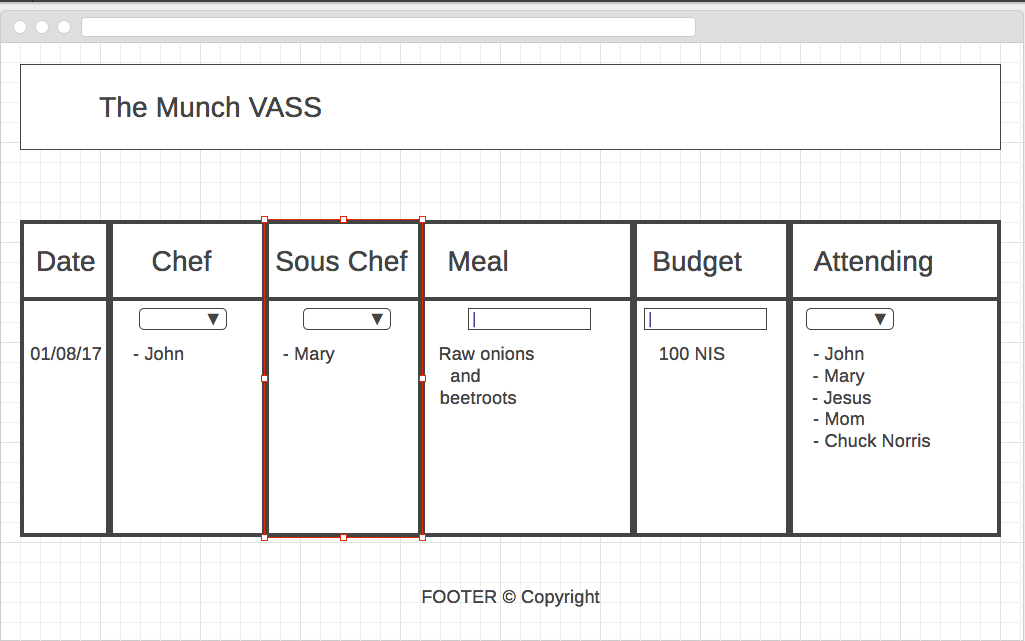
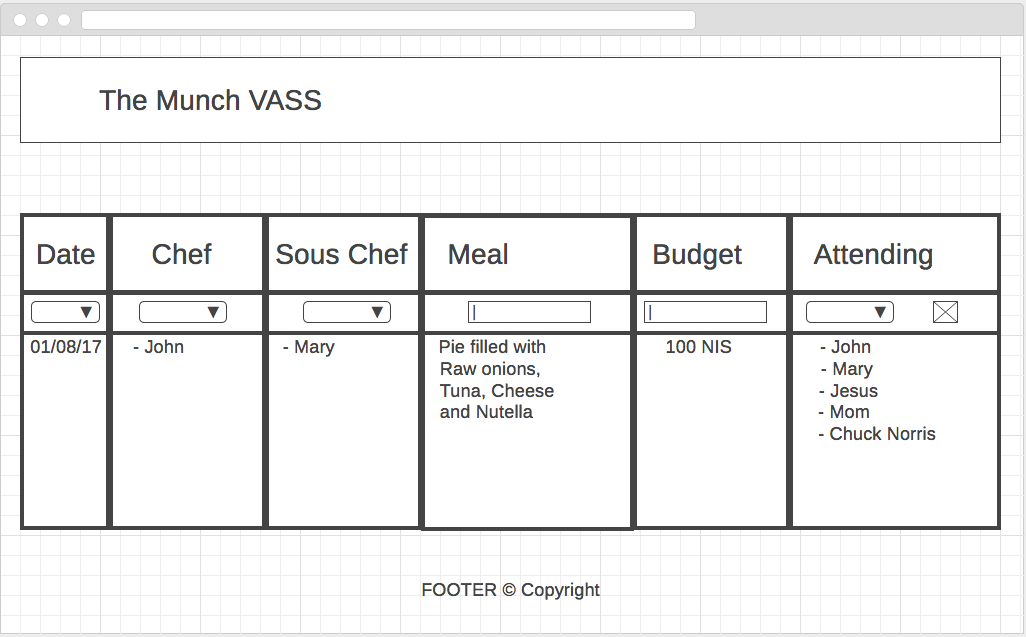
Changed various in backend CHanged the updateTable, getData, router.js routes, handler functions to include get data, updatedata,public and added some css to verfy it's working Relates #23

Changed region(s): [[0.0, 0.0, 1.0, 1.0], [0.4059, 0.8948, 0.5932, 0.9545]]

diff --git a/src/handler.js b/src/handler.js
@@ -1,7 +1,9 @@
+const http = require('http');
 const fs = require('fs');
 const pg = require('pg');
+const path = require('path');
 const querystring = require('querystring');
-const data = require('./queries/data.js')
+const datajs = require('./queries/data.js');
 
 const handleHome = (response) => {
     fs.readFile(__dirname + "/../public/index.html", function(error, file) {
@@ -13,42 +15,65 @@ const handleHome = (response) => {
           response.writeHead(200, {
               "Content-Type": "text/html"
           });
-          
           response.end(file);
         }
-    });   
+    });
 }
 
-const handleGetData = callback => {
-	getData((error, response) => {
-		if (error) {
-			console.log(error)
+const handlePublic = (request, response) => {
+	const extention = request.url.split('.')[1]; // taking the part of the file name which is the extention, i.e. "css".
+	const extentionType = { //object of the differnet types of files
+    html: 'text/html',
+    css: 'text/css',
+    js: 'application/javascript',
+    ico: 'image/x-icon',
+    png: 'image/png'
+  }
+  const filePathPublic = path.join(__dirname, '..', request.url); // define file path
+  fs.readFile(filePathPublic, (error, file) => { // read file and pass error first callback
+    if (error) { // if there is an error - print a 500 error message
+      response.writeHead(500, 'Content-Type: text/html');
+      response.end('<h1>Sorry, there is a problem with the server</h1>');
+    } else { // if the call went through - serve the file
+      response.writeHead(200, `Content-Type: ${extentionType[extention]}`); // server the file that matches the type we are looking for
+      response.end(file); // serve the file
+    }
+  })
+}
+
+const getData = () => {
+	datajs.getData((err, res) => {
+		if (err) {
+      return  console.log('Error querying database.');
 		}
-		const data = JSON.stringify(response);
-		response.writeHead(200, {'Content-Type' : 'application/json'});
-		response.end(data)
+		const table = JSON.stringify(res);
+		response.writeHead(200, {'Content-Type': 'application/json'});
+		response.end(table);
 	})
 }
 
 
+const updateTable = () => {
+  let update = '';
+  request.on('data', (chunk) => {
+    update += chunk;
+  })
+  console.log(update);
+  request.on('end', () => {
 
-// const handlePublic = (url, response) => {
-// 	const extention = urlPublic.split('.')[1]; // taking the part of the file name which is the extention, i.e. "css".
-// 	const extentionType = { //object of the differnet types of files
-//     html: 'text/html',
-//     css: 'text/css',
-//     js: 'application/javascript',
-//     ico: 'image/x-icon',
-//     png: 'image/png'
-//   }
-//   const filePathPublic = path.join(__dirname, '..', urlPublic); // define file path
-//   fs.readFile(filePathPublic, (error, file) => { // read file and pass error first callback
-//     if (error) { // if there is an error - print a 500 error message
-//       response.writeHead(500, `Content-Type: text/html`);
-//       response.end(`<h1>Sorry, there is a problem with the server </h1>`);
-//     } else { // if the call went through - serve the file
-//       response.writeHead(200, `Content-Type: ${extentionType[extention]}`); // server the file that matches the type we are looking for
-//       response.end(file); // serve the file
-//     }
-//   })
-// }
+    datajs.updateData(update, (err, res) => {
+      if (err) {
+        return console.log('Error adding the data');
+      }
+      response.writeHead(301, {"Location": "/index.html"});
+      response.end();
+    });
+  })
+}
+
+module.exports = {
+  handleHome,
+  handlePublic,
+  getData,
+  updateTable
+}

diff --git a/src/queries/data.js b/src/queries/data.js
@@ -1,14 +1,40 @@
-const dbconnection = require('/db_connection')
+const dbConnection = require('../database/db_connection')
 
 const getData = callback => {
 	const currentTable = 'SELECT * FROM cooking'
-
-	dbconnection.query(error, response) {
-		if (error) {
-			console.log('Error retrieving data ;( ... I coding suck')
+	dbConnection.query(currentTable, (err, res) => {
+		if (err) {
+			return callback(err);
 		}
+		console.log('res.rows: ', res.rows);
+		callback(null, res.rows);
+	})
+}
 
-		console.log(res.rows)
-		callback(null, res.rows)
-	}
+const updateData = (data, callback) => {
+	const date = querystring.parse(data).date;
+	const chef = querystring.parse(data).chef;
+	const souschef = querystring.parse(data).souschef;
+	const meal = querystring.parse(data).meal;
+	const budget = querystring.parse(data).budget;
+	// const participants = querystring.parse(data).participants;
+	console.log('date: ', date, 'chef: ', chef, 'souschef: ', souschef, 'meal: ', meal, 'budget: ', budget, 'participants: ', participants);
+	const updateQuery = 'INSERT INTO cooking (date, chef, souschef, meal, budget) VALUES ($1, $2, $3, $4, $5)';
+	dbConnection.query(updateQuery, [date, chef, souschef, meal, budget], (err, res) => {
+		if (err) {
+			return callback(err);
+		}
+		callback(null, res);
+	})
+}
+
+const getPeople = callback => {
+	
+}
+
+
+
+module.exports = {
+	getData,
+	updateData
 }

diff --git a/src/router.js b/src/router.js
@@ -1,17 +1,17 @@
-const handler = require('handler');
+const handler = require('./handler.js');
 
 
 const router = (request, response) => {
 	const url = request.url.split('/')[1];
 
 	if (url === ''){
-		handler.handleHome
+		handler.handleHome(response);
 	} else if (url === 'public') {
-		handler.handlePublic
-	} else if (url === 'calendar') {
-		handler.getData
-	} else if (url === '/updateCalendar') {
-		handler.updateData
+		handler.handlePublic(request, response)
+	} else if (url === 'get-data') {
+		handler.getData();
+	} else if (url === '/update-data') {
+		handler.updateTable();
 	}
 
 	// else if (url === 'addchef') {
@@ -22,9 +22,10 @@ const router = (request, response) => {
 	//  	handler.addMeal
 	// } else if (url === 'addbudget') {
 	//  	handler.addBudget
-	} else {
+	else {
 
 	}
+}
 
 
 

diff --git a/public/main.css b/public/main.css
@@ -1,0 +1,7 @@
+* {
+  font-family: 'Verdana';
+}
+
+body {
+  background: linear-gradient(to right, #2196f3, #f44336);
+}
